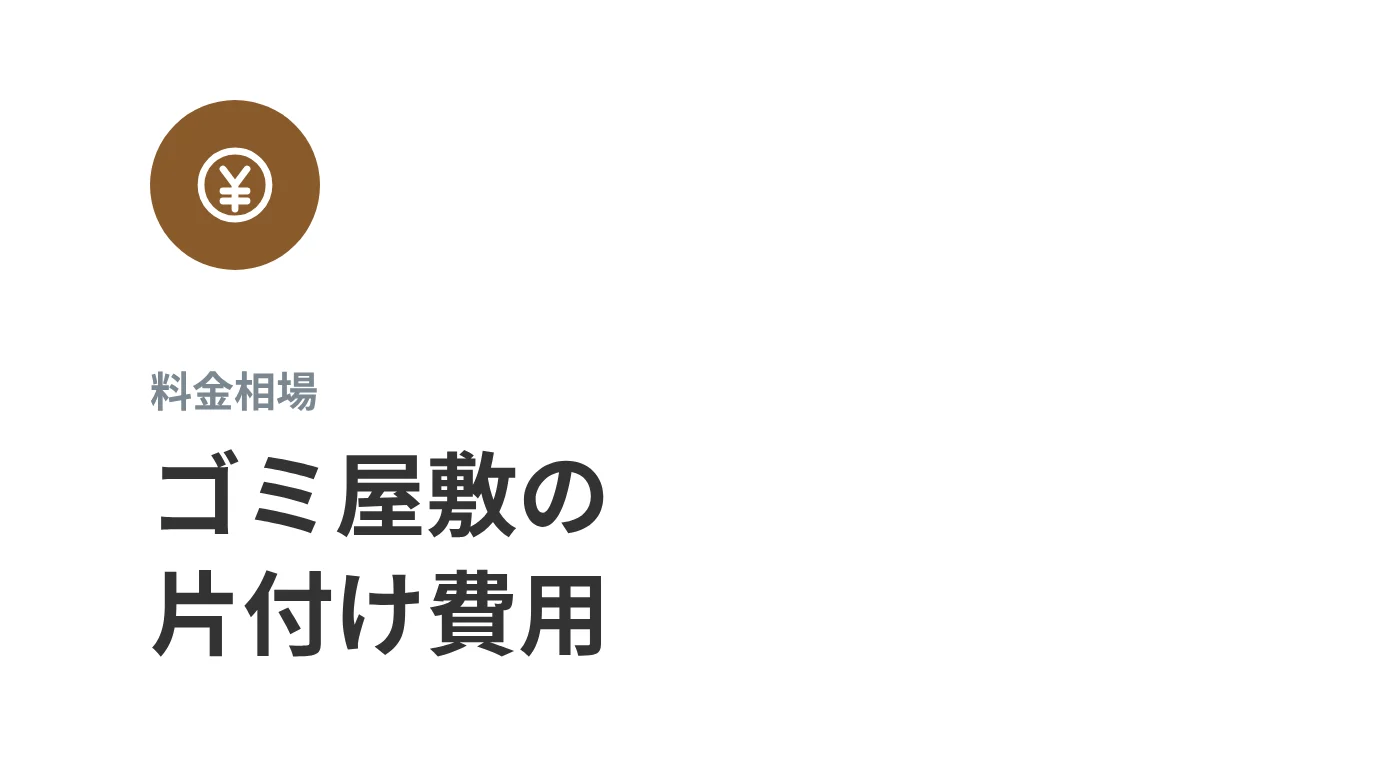
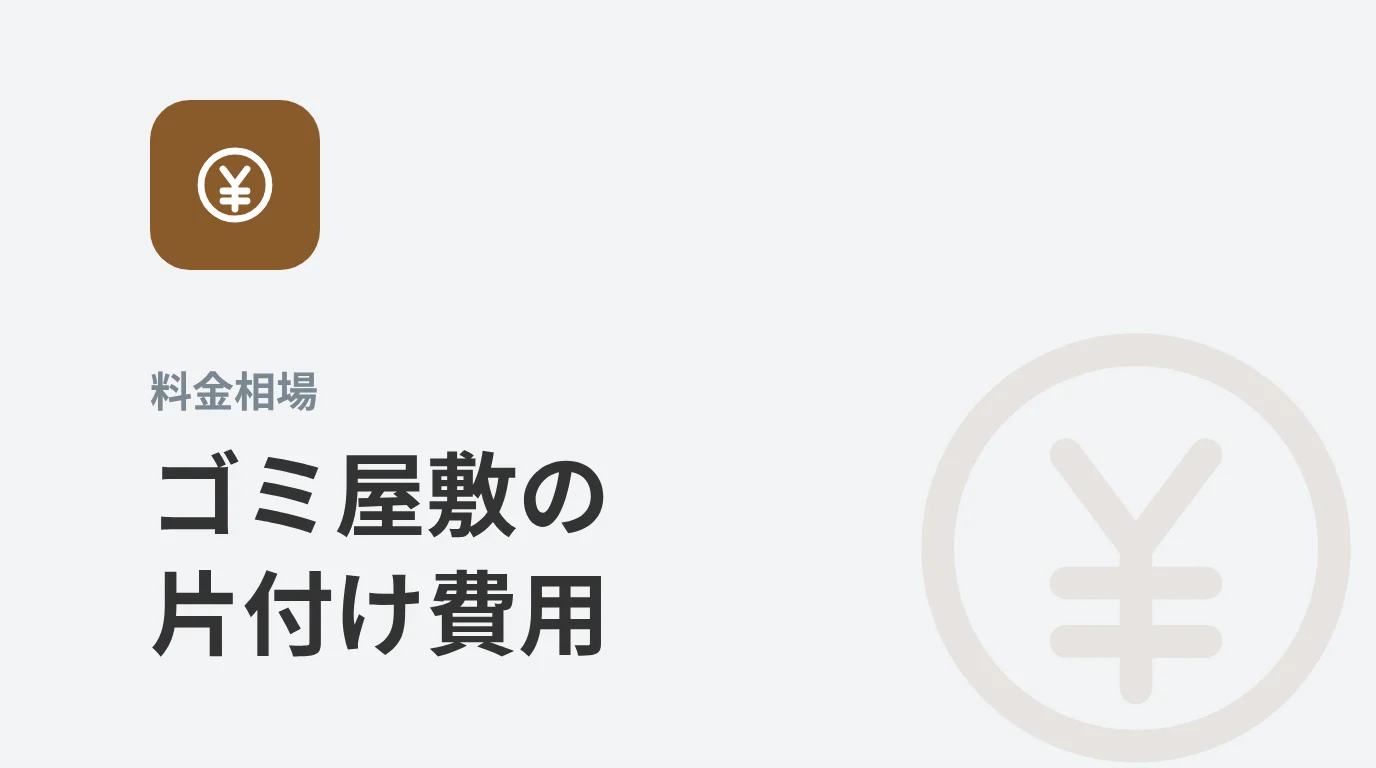
アイキャッチを案3（薄いグレー地＋透かし＋角丸四角アイコン）に
Claude-Session: https://claude.ai/code/session_01LRyDkTUJJefFDPtA3w7j2w

diff --git a/public/assets/home.css b/public/assets/home.css
@@ -571,3 +571,5 @@ body:has(.wp-layout) { background:#fff; }
 /* 記事アイキャッチ（白地）に細い枠と角丸 */
 .wp-card .thumb { border:1px solid #BFC9CF; border-radius:6px; overflow:hidden; box-sizing:border-box; }
 .wp-results .th { border:1px solid #BFC9CF; box-sizing:border-box; background:#fff; }
+/* アイキャッチがグレー地になったので枠線は外す */
+.wp-card .thumb, .wp-results .th { border:0 !important; }

diff --git a/public/assets/styles.css b/public/assets/styles.css
@@ -1741,3 +1741,4 @@ body { -webkit-font-smoothing: auto; }
   .ck-item label span, .wp-main p { color: #333 !important; }
 }
 .end-related-card .thumb { border:1px solid #BFC9CF; border-radius:6px; box-sizing:border-box; background:#fff; }
+.end-related-card .thumb { border:0 !important; }

diff --git a/scripts/make-thumbs.py b/scripts/make-thumbs.py
@@ -19,8 +19,9 @@ ICONS = {
  '手続き':'<path d="M6 3h9l3 3v15H6z"/><path d="M9 11l2 2 4-4M9 17h6"/>',
  '生活':'<rect x="5" y="10" width="14" height="10" rx="2"/><path d="M8 10V7a4 4 0 0 1 8 0v3"/>',
 }
-HTML = """<html><body style="margin:0"><div style="width:1376px;height:768px;background:#fff;position:relative;font-family:'Noto Sans CJK JP','Noto Sans JP',sans-serif">
-<div style="position:absolute;left:150px;top:100px;width:170px;height:170px;border-radius:50%;background:{c};display:flex;align-items:center;justify-content:center">
+HTML = """<html><body style="margin:0"><div style="width:1376px;height:768px;background:#F1F4F6;position:relative;overflow:hidden;font-family:'Noto Sans CJK JP','Noto Sans JP',sans-serif">
+<svg style="position:absolute;right:-40px;bottom:-60px;opacity:.10" width="560" height="560" viewBox="0 0 24 24" fill="none" stroke="{c}" stroke-width="1.4" stroke-linecap="round" stroke-linejoin="round">{ic}</svg>
+<div style="position:absolute;left:150px;top:100px;width:170px;height:170px;border-radius:40px;background:{c};display:flex;align-items:center;justify-content:center">
 <svg width="96" height="96" viewBox="0 0 24 24" fill="none" stroke="#fff" stroke-width="1.7" stroke-linecap="round" stroke-linejoin="round">{ic}</svg></div>
 <div style="position:absolute;left:150px;bottom:100px">
 <div style="font-size:42px;color:#7A8791;font-weight:700;margin-bottom:10px">{cat}</div>
